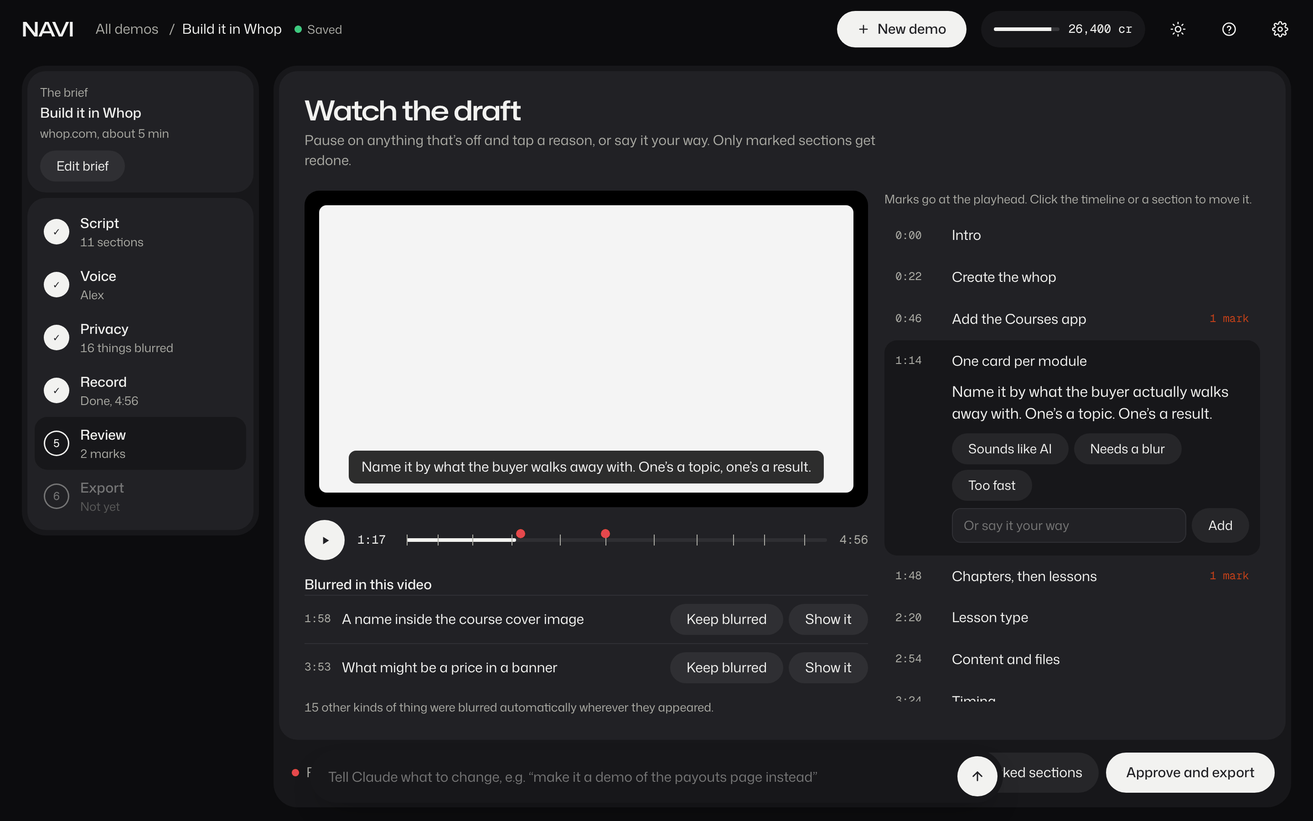
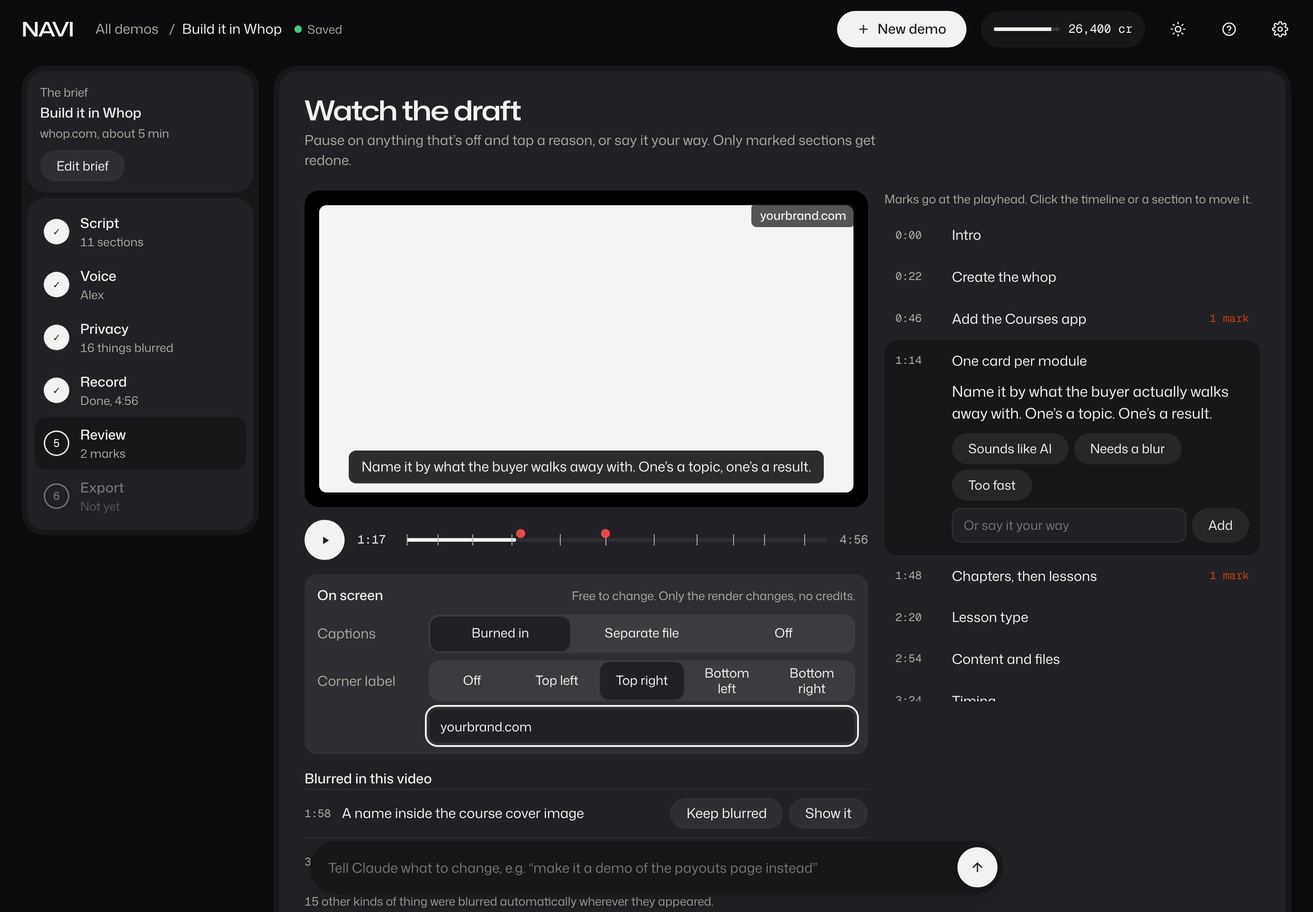
Captions on/off and an optional corner label, nothing on screen by default
Claude-Session: https://claude.ai/code/session_01BFv7MfEVZccWbSPoREnTz6

diff --git a/ui/app.js b/ui/app.js
@@ -37,6 +37,7 @@ class Component extends DCLogic {
       { id: 'page', title: 'Write the product page', site: 'whop.com', len: 2, who: 0, voice: 'alex', kind: 'course', max: 3, cover: 'assets/cover-2.jpg', status: 'Recording 4 of 9', dot: '#E0A100', recorded: false, written: true, notes: {}, blurs: [] },
       { id: 'pay', title: 'Connect payouts', site: 'whop.com', len: 1, who: 0, voice: 'alex', kind: 'course', max: 5, cover: 'assets/cover-3.jpg', status: 'Exported Nov 2', dot: 'var(--okDot)', recorded: true, written: true, exported: true, notes: {}, blurs: [] },
       { id: 'posts', title: 'Schedule a week of posts', site: 'app.yourproduct.com', len: 2, who: 1, voice: 'jessica', kind: 'saas', max: 5, cover: 'assets/cover-4.jpg', status: 'Exported Oct 28', dot: 'var(--okDot)', recorded: true, written: true, exported: true, notes: {}, blurs: [] }];
+    demos.forEach((d) => Object.assign(d, { capMode: 'burn', corner: 'off', cornerText: '' }));
     const screen = start === 'voice' || start === 'review' ? 'demo' : start;
     this.state = {
       screen: screen, step: start === 'review' ? 4 : 1, cur: 'whop', demos: demos, theme: null, help: false,
@@ -48,6 +49,7 @@ class Component extends DCLogic {
       sel: 2, revT: 86, player: false, noteDraft: '', p720: false, recPos: 11, confirm: null,
       sites: [{ u: 'whop.com', note: 'Logged in to Demo Academy, saved Nov 4' }, { u: 'app.yourproduct.com', note: 'Saved Oct 28' }], siteDraft: '', cleared: {}, wipeConfirm: false,
       lib: false, libF: 'all', chat: [], chatDraft: '', chatAct: null,
+      defCap: 'burn', defCorner: 'off', defCornerText: '', bCap: 'burn', bCorner: 'off', bCornerText: '',
       bWhat: '', bSite: 'whop.com', bNew: '', bWho: 0, bLen: 2, bHide: '', bVoice: 'alex', editing: false,
       toast: '', toastUndo: null, toastGo: null, toastGoLabel: ''
     };
@@ -154,12 +156,19 @@ class Component extends DCLogic {
     const dataAct = {
       key: () => { this.setState({ keyOn: false }); this.say('Key removed', () => this.setState({ keyOn: true })); },
       logins: () => { const prev = st.sites; this.setState({ sites: [] }); this.say('All saved logins forgotten', () => this.setState({ sites: prev })); },
-      settings: () => { const prev = { vals: st.vals, hide: st.hide, shown: st.shown, defVoice: st.defVoice }; this.setState({ vals: Object.assign({}, this.presetVals.course), hide: [], shown: { email: false, phone: false, names: false, address: false, money: false, customers: false, counts: false, usage: true, prices: true, dates: true }, defVoice: 'alex' }); this.say('Settings reset', () => this.setState(prev)); }
+      settings: () => { const prev = { vals: st.vals, hide: st.hide, shown: st.shown, defVoice: st.defVoice, defCap: st.defCap, defCorner: st.defCorner, defCornerText: st.defCornerText }; this.setState({ vals: Object.assign({}, this.presetVals.course), hide: [], shown: { email: false, phone: false, names: false, address: false, money: false, customers: false, counts: false, usage: true, prices: true, dates: true }, defVoice: 'alex', defCap: 'burn', defCorner: 'off', defCornerText: '' }); this.say('Settings reset', () => this.setState(prev)); }
     };
     const keyMsg = st.keyRes === 'ok' ? 'Connected. Starter plan, ' + this.num(st.credits) + ' of 30,000 credits left. Saved in your Mac’s Keychain.' : st.keyRes === 'bad' ? 'That key didn’t work. Check you copied all of it and it has text to speech access.' : '';
     const videoCost = 4600; const leftAfter = Math.max(0, st.credits - (D.recorded ? 0 : videoCost));
     const chatClean = (m) => { let s = m.replace(/^(actually|no|ok|okay|wait)[,!.\s]*/i, '').replace(/^(make|do|change)( it| this)?( into)?( a)? demo (of|for|on|about)\s*/i, '').replace(/\s*instead[.!]*$/i, ''); return s.charAt(0).toUpperCase() + s.slice(1); };
     const dSel = (k) => ({ label: pretty(k), on: st.defVoice === k ? 'true' : 'false', pick: () => { this.setState({ defVoice: k }); this.say(pretty(k) + ' is now the default for new demos'); } });
+    const capOpts = [['burn', 'Burned in'], ['file', 'Separate file'], ['off', 'Off']];
+    const posOpts = [['off', 'Off'], ['tl', 'Top left'], ['tr', 'Top right'], ['bl', 'Bottom left'], ['br', 'Bottom right']];
+    const capName = { burn: 'burned in', file: 'as a separate file', off: 'off' };
+    const segOf = (opts, cur, fn) => opts.map((o) => ({ label: o[1], on: cur === o[0] ? 'true' : 'false', pick: () => fn(o[0]) }));
+    const posCss = { tl: 'left: 14px; top: 14px', tr: 'right: 14px; top: 14px', bl: 'left: 14px; bottom: 14px', br: 'right: 14px; bottom: 14px' };
+    const dCap = D.capMode || 'burn'; const dCorner = D.corner || 'off'; const dCornerText = D.cornerText || '';
+    const base = D.title.replace(/\u2026$/, '');
     return {
       themeClass: theme === 'dark' ? 't-dark' : 't-light', isDark: theme === 'dark', isLight: theme !== 'dark', themeAria: theme === 'dark' ? 'Switch to light mode' : 'Switch to dark mode', toggleTheme: () => this.setState({ theme: theme === 'dark' ? 'light' : 'dark' }),
       isWelcome: st.screen === 'welcome', inApp: st.screen !== 'welcome', isHome: st.screen === 'home', isDemo: st.screen === 'demo', isSettings: st.screen === 'settings', isNew: st.screen === 'new',
@@ -173,8 +182,8 @@ class Component extends DCLogic {
       toolsDot: st.tools === 'done' ? 'var(--okDot)' : 'var(--danger)', toolsStatus: st.tools === 'done' ? 'Recording tools ready' : 'Recording tools not installed',
       sitesStatus: st.sites.length ? st.sites.length + (st.sites.length === 1 ? ' saved login' : ' saved logins') : 'No saved logins',
       demoTitle: D.title, briefLine: D.site + ', about ' + ['1', '3', '5', '8'][D.len] + ' min', demoCover: D.cover,
-      newDemo: () => this.setState({ screen: 'new', editing: false, bWhat: '', bNew: '', bHide: '', bSite: st.sites[0] ? st.sites[0].u : '', bVoice: st.defVoice, bWho: 0, bLen: 2, help: false }),
-      editBrief: () => this.setState({ screen: 'new', editing: true, bWhat: D.what || 'How to build a course in Whop, from creating the whop to checking it on a phone', bSite: D.site, bNew: '', bWho: D.who, bLen: D.len, bVoice: D.voice }),
+      newDemo: () => this.setState({ screen: 'new', editing: false, bCap: st.defCap, bCorner: st.defCorner, bCornerText: st.defCornerText, bWhat: '', bNew: '', bHide: '', bSite: st.sites[0] ? st.sites[0].u : '', bVoice: st.defVoice, bWho: 0, bLen: 2, help: false }),
+      editBrief: () => this.setState({ screen: 'new', editing: true, bWhat: D.what || 'How to build a course in Whop, from creating the whop to checking it on a phone', bSite: D.site, bNew: '', bWho: D.who, bLen: D.len, bVoice: D.voice, bCap: dCap, bCorner: dCorner, bCornerText: dCornerText }),
       newTitle: st.editing ? 'Edit the brief' : 'New demo', briefCta: st.editing ? 'Update the script' : 'Write the script',
       briefHint: st.editing ? 'Claude only rewrites what changed.' : 'Takes about a minute. You can keep using the page.',
       bWhat: st.bWhat, onBWhat: (e) => this.setState({ bWhat: e.target.value }), bHide: st.bHide, onBHide: (e) => this.setState({ bHide: e.target.value }), bNew: st.bNew, onBNew: (e) => this.setState({ bNew: e.target.value }),
@@ -183,13 +192,24 @@ class Component extends DCLogic {
       bWho: ['Complete beginners', 'Some experience', 'Pros'].map((s, i) => ({ label: s, on: st.bWho === i ? 'true' : 'false', pick: () => this.setState({ bWho: i }) })),
       bLen: ['1 min', '3 min', '5 min', '8 min'].map((s, i) => ({ label: s, on: st.bLen === i ? 'true' : 'false', pick: () => this.setState({ bLen: i }) })),
       bVoices: st.mine.map((k) => ({ label: pretty(k), on: st.bVoice === k ? 'true' : 'false', pick: () => this.setState({ bVoice: k }) })),
+      bCaps: segOf(capOpts, st.bCap, (x) => this.setState({ bCap: x })),
+      bCorner: segOf(posOpts, st.bCorner, (x) => this.setState({ bCorner: x })),
+      bCornerText: st.bCornerText, onBCornerText: (e) => this.setState({ bCornerText: e.target.value }), bCornerOff: st.bCorner === 'off', bCornerOp: st.bCorner === 'off' ? 0.45 : 1,
+      bCornerPh: 'Text to show in the corner, e.g. your brand name',
+      revCaps: segOf(capOpts, dCap, (x) => { this.patchDemo({ capMode: x }); this.say('Captions ' + capName[x]); }),
+      revCorner: segOf(posOpts, dCorner, (x) => this.patchDemo({ corner: x })),
+      revCornerText: dCornerText, onRevCornerText: (e) => this.patchDemo({ cornerText: e.target.value }), revCornerOff: dCorner === 'off', revCornerOp: dCorner === 'off' ? 0.45 : 1,
+      showCapPreview: dCap === 'burn', cornerShown: dCorner !== 'off', cornerStyle: posCss[dCorner] || '', cornerTextShown: dCornerText.trim() || 'Your label here',
+      defCaps: segOf(capOpts, st.defCap, (x) => this.setState({ defCap: x })),
+      defCorner: segOf(posOpts, st.defCorner, (x) => this.setState({ defCorner: x })),
+      defCornerText: st.defCornerText, onDefCornerText: (e) => this.setState({ defCornerText: e.target.value }), defCornerOff: st.defCorner === 'off', defCornerOp: st.defCorner === 'off' ? 0.45 : 1,
       cancelBrief: () => this.setState({ screen: st.editing ? 'demo' : 'home' }),
       submitBrief: () => {
         const w = st.bWhat.trim(); if (!w) return; const t = w.length > 34 ? w.slice(0, 32).replace(/\s+\S*$/, '') + '…' : w; const site = st.bNew.trim() || st.bSite || 'whop.com';
         const newSite = st.bNew.trim() && !st.sites.some((s) => s.u === site);
-        if (st.editing) { this.patchDemo({ title: t, what: w, site: site, who: st.bWho, len: st.bLen, voice: st.bVoice, written: false }); this.setState({ screen: 'demo', step: 0, sites: newSite ? st.sites.concat([{ u: site, note: 'Saved Nov 4' }]) : st.sites }); this.later('write', 2200, () => { this.patchDemo({ written: true }); this.say('Script updated'); }); this.say('Updating the script'); return; }
+        if (st.editing) { this.patchDemo({ title: t, what: w, site: site, who: st.bWho, len: st.bLen, voice: st.bVoice, capMode: st.bCap, corner: st.bCorner, cornerText: st.bCornerText, written: false }); this.setState({ screen: 'demo', step: 0, sites: newSite ? st.sites.concat([{ u: site, note: 'Saved Nov 4' }]) : st.sites }); this.later('write', 2200, () => { this.patchDemo({ written: true }); this.say('Script updated'); }); this.say('Updating the script'); return; }
         const id = 'd' + Date.now();
-        const d = { id: id, title: t, what: w, site: site, len: st.bLen, who: st.bWho, voice: st.bVoice, kind: 'course', max: 0, cover: 'assets/cover-4.jpg', status: 'Writing script', dot: '#E0A100', recorded: false, written: false, notes: {}, blurs: [] };
+        const d = { id: id, title: t, what: w, site: site, len: st.bLen, who: st.bWho, voice: st.bVoice, kind: 'course', max: 0, cover: 'assets/cover-4.jpg', status: 'Writing script', dot: '#E0A100', recorded: false, written: false, notes: {}, blurs: [], capMode: st.bCap, corner: st.bCorner, cornerText: st.bCornerText };
         this.setState({ demos: [d].concat(st.demos), cur: id, screen: 'demo', step: 0, vals: this.recFor(st.bVoice, 'course'), sites: newSite ? st.sites.concat([{ u: site, note: 'Saved Nov 4' }]) : st.sites, recPos: 0 });
         this.say(newSite ? 'A browser opens so you can log in to ' + site + '. Then Claude writes the script.' : 'Claude is exploring ' + site + ' and writing the script');
         this.later('write', 2600, () => { this.setState({ demos: this.state.demos.map((x) => x.id === id ? Object.assign({}, x, { written: true, status: 'Script ready', dot: '#E0A100' }) : x) }); this.say('Script ready to read'); });
@@ -238,9 +258,9 @@ class Component extends DCLogic {
       togglePlayer: () => { if (st.player) { this.stop('player'); this.setState({ player: false }); return; } this.setState({ player: true }); this.every('player', 250, () => { const t = this.state.revT + 1; if (t >= this.total) { this.stop('player'); this.setState({ player: false, revT: this.total }); return; } let s = 0; for (let i = 0; i < this.secs.length; i++) if (t >= this.starts[i]) s = i; this.setState({ revT: t, sel: s }); }); },
       blurs: (D.blurs || []).map((b) => ({ t: b.t, what: b.what, unsure: !b.s, done: !!b.s, status: b.s === 'keep' ? 'Kept blurred' : 'Shown', keep: () => this.patchDemo({ blurs: D.blurs.map((x) => x.id === b.id ? Object.assign({}, x, { s: 'keep' }) : x) }), show: () => this.patchDemo({ blurs: D.blurs.map((x) => x.id === b.id ? Object.assign({}, x, { s: 'show' }) : x) }), undo: () => this.patchDemo({ blurs: D.blurs.map((x) => x.id === b.id ? Object.assign({}, x, { s: '' }) : x) }) })),
       autoBlurNote: (blurCount - 1) + ' other kinds of thing were blurred automatically wherever they appeared.',
-      files: [{ n: D.title.replace(/…$/, '') + '.mp4', s: '1080p, 4:58' }, { n: D.title.replace(/…$/, '') + '.srt', s: 'captions' }, { n: D.title.replace(/…$/, '') + '.txt', s: 'transcript' }].concat(st.p720 ? [{ n: D.title.replace(/…$/, '') + ' (720p).mp4', s: 'preview' }] : []),
+      files: [{ n: base + '.mp4', s: '1080p, 4:58' + (dCap === 'burn' ? ', captions in' : '') }].concat(dCap !== 'off' ? [{ n: base + '.srt', s: 'captions' }] : []).concat([{ n: base + '.txt', s: 'transcript' }]).concat(st.p720 ? [{ n: base + ' (720p).mp4', s: 'preview' }] : []),
       p720On: p.onStr, p720Track: p.track, p720X: p.x, toggle720: () => this.setState({ p720: !st.p720 }),
-      exportNote: 'Saved in your Videos folder. Your marks on this demo were used to tune ' + voicePretty + '’s defaults for next time.',
+      exportNote: 'Captions ' + capName[dCap] + (dCorner !== 'off' && dCornerText.trim() ? ', corner label \u201c' + dCornerText.trim() + '\u201d' : ', no corner label') + '. Saved in your Videos folder. Your marks on this demo were used to tune ' + voicePretty + '’s defaults for next time.',
       key: st.key, onKey: (e) => this.setState({ key: e.target.value, keyRes: null }), keyType: st.keyType, keyTypeLabel: st.keyType === 'password' ? 'Show' : 'Hide', toggleKeyType: () => this.setState({ keyType: st.keyType === 'password' ? 'text' : 'password' }),
       testKey: () => { const ok = st.key.trim().length > 8; this.setState({ keyRes: ok ? 'ok' : 'bad', keyOn: ok ? true : st.keyOn }); if (ok && st.screen === 'settings') this.later('keyclose', 1400, () => this.setState({ keyEdit: false, key: '', keyRes: null })); },
       keyMsg: keyMsg, keyMsgColor: st.keyRes === 'bad' ? 'var(--danger)' : 'var(--ok)',

diff --git a/ui/index.html b/ui/index.html
@@ -343,7 +343,8 @@ button[disabled]{cursor:not-allowed}
 <div>
 <div style="position: relative; aspect-ratio: 16 / 9; border-radius: 16px; overflow: hidden; background: var(--screen)">
 <div aria-hidden="true" style="position: absolute; inset: 16px; border-radius: 8px; background: #F4F4F4"></div>
-<div style="position: absolute; left: 50%; bottom: 26px; transform: translateX(-50%); max-width: 80%; width: max-content; background: rgba(17,17,17,0.88); color: #F2F2F2; border-radius: 8px; padding: 7px 14px; font-size: 15px; text-align: center">{{revCaption}}</div>
+<div v-if="showCapPreview" style="display: contents"><div style="position: absolute; left: 50%; bottom: 26px; transform: translateX(-50%); max-width: 80%; width: max-content; background: rgba(17,17,17,0.88); color: #F2F2F2; border-radius: 8px; padding: 7px 14px; font-size: 15px; text-align: center">{{revCaption}}</div></div>
+<div v-if="cornerShown" style="display: contents"><span :style="'position: absolute; ' + (cornerStyle) + '; background: rgba(17,17,17,0.7); color: #F2F2F2; border-radius: 6px; padding: 4px 10px; font-size: 13px; font-weight: 500; max-width: 40%; overflow: hidden; text-overflow: ellipsis; white-space: nowrap'">{{cornerTextShown}}</span></div>
 </div>
 <div style="display: flex; align-items: center; gap: 14px; margin-top: 14px">
 <button type="button" @click="togglePlayer($event)" :aria-label="(playerAria)" style="width: 44px; height: 44px; border-radius: 22px; border: 0; background: var(--ink); color: var(--sheet); display: inline-flex; align-items: center; justify-content: center; flex: none">
@@ -358,6 +359,14 @@ button[disabled]{cursor:not-allowed}
 <div v-for="m in markPins" style="display: contents"><span aria-hidden="true" :style="'position: absolute; top: 2px; left: ' + (m) + '; width: 10px; height: 10px; margin-left: -5px; border-radius: 5px; background: #E5484D; pointer-events: none'"></span></div>
 </div>
 <span class="mono" style="font-size: 13px; color: var(--ink2)">4:56</span>
+</div>
+<div style="margin-top: 16px; padding: 12px 14px; border-radius: 14px; background: var(--wash)">
+<div style="display: flex; justify-content: space-between; align-items: center; gap: 12px"><span style="font-weight: 500">On screen</span><span style="font-size: 13px; color: var(--ink2)">Free to change. Only the render changes, no credits.</span></div>
+<div style="display: grid; grid-template-columns: 110px minmax(0, 1fr); gap: 8px 12px; align-items: center; margin-top: 10px">
+<span style="color: var(--ink2)">Captions</span><div class="seg" role="group" aria-label="Captions"><div v-for="o in revCaps" style="display: contents"><button type="button" :aria-pressed="(o.on)" @click="o.pick($event)" style="min-width: 0">{{o.label}}</button></div></div>
+<span style="color: var(--ink2)">Corner label</span><div class="seg" role="group" aria-label="Corner label"><div v-for="o in revCorner" style="display: contents"><button type="button" :aria-pressed="(o.on)" @click="o.pick($event)" style="min-width: 0">{{o.label}}</button></div></div>
+<span></span><div><label for="rct" class="sr">Corner label text</label><input id="rct" type="text" :value="(revCornerText)" @input="onRevCornerText($event)" @change="onRevCornerText($event)" :disabled="(revCornerOff)" :placeholder="(bCornerPh)" :style="'width: 100%; height: 38px; border-radius: 10px; border: 1px solid var(--line); background: var(--sheet); padding: 0 12px; box-sizing: border-box; font-size: 14px; opacity: ' + (revCornerOp)"></div>
+</div>
 </div>
 <div style="margin-top: 16px">
 <div style="font-weight: 500">Blurred in this video</div>
@@ -435,6 +444,9 @@ button[disabled]{cursor:not-allowed}
 </div>
 <div><label for="bh" style="display: block; font-weight: 500; margin-bottom: 8px">Anything to keep off screen? <span style="font-weight: 400; color: var(--ink2)">Optional</span></label><input id="bh" type="text" :value="(bHide)" @input="onBHide($event)" @change="onBHide($event)" placeholder="e.g. the billing page, my real store name" style="width: 100%; height: 46px; box-sizing: border-box; border-radius: 12px; border: 1px solid var(--line); background: var(--sheet); padding: 0 14px"></div>
 <div><div style="font-weight: 500; margin-bottom: 8px">Voice</div><div class="seg" role="group" aria-label="Voice"><div v-for="o in bVoices" style="display: contents"><button type="button" :aria-pressed="(o.on)" @click="o.pick($event)">{{o.label}}</button></div></div><div style="font-size: 13px; color: var(--ink2); margin-top: 6px">You can fine-tune it in the Voice step.</div></div>
+<div><div style="font-weight: 500; margin-bottom: 8px">Captions</div><div class="seg" role="group" aria-label="Captions"><div v-for="o in bCaps" style="display: contents"><button type="button" :aria-pressed="(o.on)" @click="o.pick($event)">{{o.label}}</button></div></div><div style="font-size: 13px; color: var(--ink2); margin-top: 6px">Burned in shows them in the video. Separate file gives you an .srt to upload with it.</div></div>
+<div><div style="font-weight: 500; margin-bottom: 8px">Corner label <span style="font-weight: 400; color: var(--ink2)">Off unless you add one</span></div><div class="seg" role="group" aria-label="Corner label"><div v-for="o in bCorner" style="display: contents"><button type="button" :aria-pressed="(o.on)" @click="o.pick($event)">{{o.label}}</button></div></div>
+<div style="display: flex; gap: 8px; margin-top: 8px"><label for="bct" class="sr">Corner label text</label><input id="bct" type="text" :value="(bCornerText)" @input="onBCornerText($event)" @change="onBCornerText($event)" :disabled="(bCornerOff)" :placeholder="(bCornerPh)" :style="'flex: 1; min-width: 0; height: 44px; border-radius: 12px; border: 1px solid var(--line); background: var(--sheet); padding: 0 14px; box-sizing: border-box; opacity: ' + (bCornerOp)"></div></div>
 </div>
 <div class="foot"><span style="color: var(--ink2)">{{briefHint}}</span><span style="display: flex; gap: 8px"><button type="button" class="btn" @click="cancelBrief($event)">Cancel</button><button type="button" class="pri" @click="submitBrief($event)" :disabled="(briefEmpty)">{{briefCta}}</button></span></div>
 </div>
@@ -448,6 +460,8 @@ button[disabled]{cursor:not-allowed}
 <div class="tray"><div class="sheet" style="padding: 6px 18px">
 <div class="row" style="border-top: 0"><span style="flex: 1"><span style="display: block; font-weight: 500">Appearance</span><span style="color: var(--ink2); font-size: 13px">Follows your Mac unless you pick one</span></span><div class="seg" role="group" aria-label="Appearance" style="width: 340px"><div v-for="a in appear" style="display: contents"><button type="button" :aria-pressed="(a.on)" @click="a.pick($event)" style="min-width: 0">{{a.label}}</button></div></div></div>
 <div class="row"><span style="flex: 1"><span style="display: block; font-weight: 500">Default voice for new demos</span><span style="color: var(--ink2); font-size: 13px">Add more voices in any demo's Voice step</span></span><div class="seg" role="group" aria-label="Default voice" style="width: 340px"><div v-for="a in defVoices" style="display: contents"><button type="button" :aria-pressed="(a.on)" @click="a.pick($event)" style="min-width: 0">{{a.label}}</button></div></div></div>
+<div class="row"><span style="flex: 1"><span style="display: block; font-weight: 500">Captions on new demos</span><span style="color: var(--ink2); font-size: 13px">You can change it per demo</span></span><div class="seg" role="group" aria-label="Default captions" style="width: 340px"><div v-for="a in defCaps" style="display: contents"><button type="button" :aria-pressed="(a.on)" @click="a.pick($event)" style="min-width: 0">{{a.label}}</button></div></div></div>
+<div class="row" style="flex-wrap: wrap; padding: 10px 0"><span style="flex: 1 1 200px"><span style="display: block; font-weight: 500">Corner label on new demos</span><span style="color: var(--ink2); font-size: 13px">Off unless you set one, e.g. your brand name</span></span><div style="flex: 1 1 420px; display: flex; flex-direction: column; gap: 8px"><div class="seg" role="group" aria-label="Default corner label"><div v-for="a in defCorner" style="display: contents"><button type="button" :aria-pressed="(a.on)" @click="a.pick($event)" style="min-width: 0">{{a.label}}</button></div></div><label for="dct" class="sr">Default corner label text</label><input id="dct" type="text" :value="(defCornerText)" @input="onDefCornerText($event)" @change="onDefCornerText($event)" :disabled="(defCornerOff)" :placeholder="(bCornerPh)" :style="'height: 40px; border-radius: 10px; border: 1px solid var(--line); background: var(--sheet); padding: 0 12px; box-sizing: border-box; opacity: ' + (defCornerOp)"></div></div>
 <div class="row"><span style="flex: 1"><span style="display: block; font-weight: 500">ElevenLabs API key</span><span :style="'color: ' + (keyRowColor) + '; font-size: 13px'">{{keyRow}}</span></span><button type="button" class="btn" @click="toggleKeyEdit($event)" :aria-expanded="(keyEdit)" style="height: 36px; width: 130px">{{keyEditLabel}}</button></div>
 <div v-if="keyEdit" style="display: contents">
 <div class="fade" style="padding: 4px 0 16px">

diff --git a/README.md b/README.md
@@ -36,6 +36,7 @@ No face on camera. No microphone. No robot voice.
 - [Install](#install)
 - [Use it](#use-it)
 - [Voice sliders](#voice-sliders)
+- [Captions and labels](#captions-and-labels)
 - [Privacy](#privacy)
 - [Costs](#costs)
 - [Project layout](#project-layout)
@@ -69,6 +70,7 @@ NAVI is a fourth option. It treats the voice like a real person talking: one rel
 | **Privacy first** | Keys, passwords and card numbers are always blurred. Emails, names and money are blurred unless you allow them. Every frame is checked again after recording. |
 | **Review like an editor** | A player with section ticks. Mark a moment ("sounds like AI", "needs a blur", "too fast") or type a note. Only marked sections are redone, with the cost shown first. |
 | **Learns your taste** | Your marks tune each voice's defaults for next time. |
+| **Your call on screen** | Captions burned in, as a separate file, or off. No watermark or corner label unless you add one (your brand name, top right, say). Change both in Review for free; only the render changes. |
 | **Export** | MP4, captions (.srt) and a transcript, plus an optional 720p preview. |
 | **Your data, your call** | Everything stays on your computer. Remove the key, forget logins, reset settings or delete everything from one page. |
 
@@ -122,7 +124,10 @@ These rules came out of five rounds of listening tests on real walkthroughs:
   </tr>
   <tr>
     <td><img src="docs/screens/privacy.png" alt="Privacy step with three tiers of blurring and warnings"><br><sub><b>Privacy.</b> Three tiers, with a warning when you choose to show something risky.</sub></td>
-    <td><img src="docs/screens/review-dark.png" alt="Review step: player, timeline with marks and per-section notes"><br><sub><b>Review.</b> Marks pinned to the playhead; only marked sections get redone.</sub></td>
+    <td><img src="docs/screens/review-dark.png" alt="Review step: player, timeline with marks, captions and corner label controls"><br><sub><b>Review.</b> Marks pinned to the playhead; captions and corner label change for free.</sub></td>
+  </tr>
+  <tr>
+    <td colspan="2"><img src="docs/screens/brief.png" alt="New demo brief: what to show, site, audience, length, voice, captions and corner label"><br><sub><b>New demo.</b> Say what to show; choose captions and an optional corner label up front.</sub></td>
   </tr>
 </table>
 
@@ -198,6 +203,17 @@ Every slider is locked to a narrow range that stays human. The faint mark on eac
 | Swearing | Off, One, A few | Fine for any audience | At natural reactions, never in instructions |
 
 Swears can be kept out of the captions with one switch.
+
+## Captions and labels
+
+Nothing is stamped on your video unless you ask for it.
+
+| Setting | Options | Default |
+|---|---|---|
+| Captions | Burned in, separate .srt file, or off | Burned in |
+| Corner label | Off, or your text in any corner | Off |
+
+Set defaults once in Settings, override them per demo in the brief, and change them in Review before exporting. Changing them never costs credits, because only the final render changes.
 
 ## Privacy
 

diff --git a/SKILL.md b/SKILL.md
@@ -45,7 +45,7 @@ Not for: desktop apps, videos with a real person on camera, voice cloning.
 
 ### 1. Brief
 
-Get, in as few questions as possible: what to show, which site, who's watching (beginners / some experience / pros), length (1, 3, 5 or 8 minutes), anything to keep off screen, and which voice. Use sensible defaults rather than asking about everything. A new site means a one-time login.
+Get, in as few questions as possible: what to show, which site, who's watching (beginners / some experience / pros), length (1, 3, 5 or 8 minutes), anything to keep off screen, and which voice. Captions and corner label come from the user's saved defaults (captions burned in, no corner label) unless they say otherwise. **Never add a watermark, brand name, "Illustrative" tag or any other overlay the user didn't ask for.** Use sensible defaults rather than asking about everything. A new site means a one-time login.
 
 If the user changes direction mid-way ("make it a demo of the payouts page instead"), keep the current demo as a draft and start a new brief from what they said.
 
@@ -89,7 +89,7 @@ Open the local app on the Review step. The user marks moments (sounds like AI, n
 
 ### 8. Export
 
-Render the MP4 (1080p), captions (.srt) and a transcript, plus an optional 720p preview, into the user's videos folder. Name the files after the demo title.
+Apply the demo's caption setting (burned in, separate .srt, or off) and corner label (off, or the user's text in the chosen corner); changing either is a re-render only, no credits. Render the MP4 (1080p), captions (.srt unless captions are off) and a transcript, plus an optional 720p preview, into the user's videos folder. Name the files after the demo title.
 
 ## Your data
 

diff --git a/docs/engine.md b/docs/engine.md
@@ -68,7 +68,10 @@ Each demo is a list of sections. Each section carries what the voice says, what 
 
 ## 6. Render and export
 
-- ffmpeg combines the recorded video, the voice takes and burned-in or sidecar captions.
+- ffmpeg combines the recorded video and the voice takes, then applies the demo's on-screen settings:
+  - **Captions:** burned in, sidecar `.srt` only, or off.
+  - **Corner label:** off by default; otherwise the user's text in the chosen corner. No other overlays (no watermark, no "Illustrative" tag) unless the user adds them.
+  - Both are render-only, so changing them never regenerates voice or re-records.
 - Outputs: 1080p MP4, `.srt` captions, a plain-text transcript, and an optional 720p preview.
 - Redos only regenerate and re-record the marked sections, then re-render.
 
